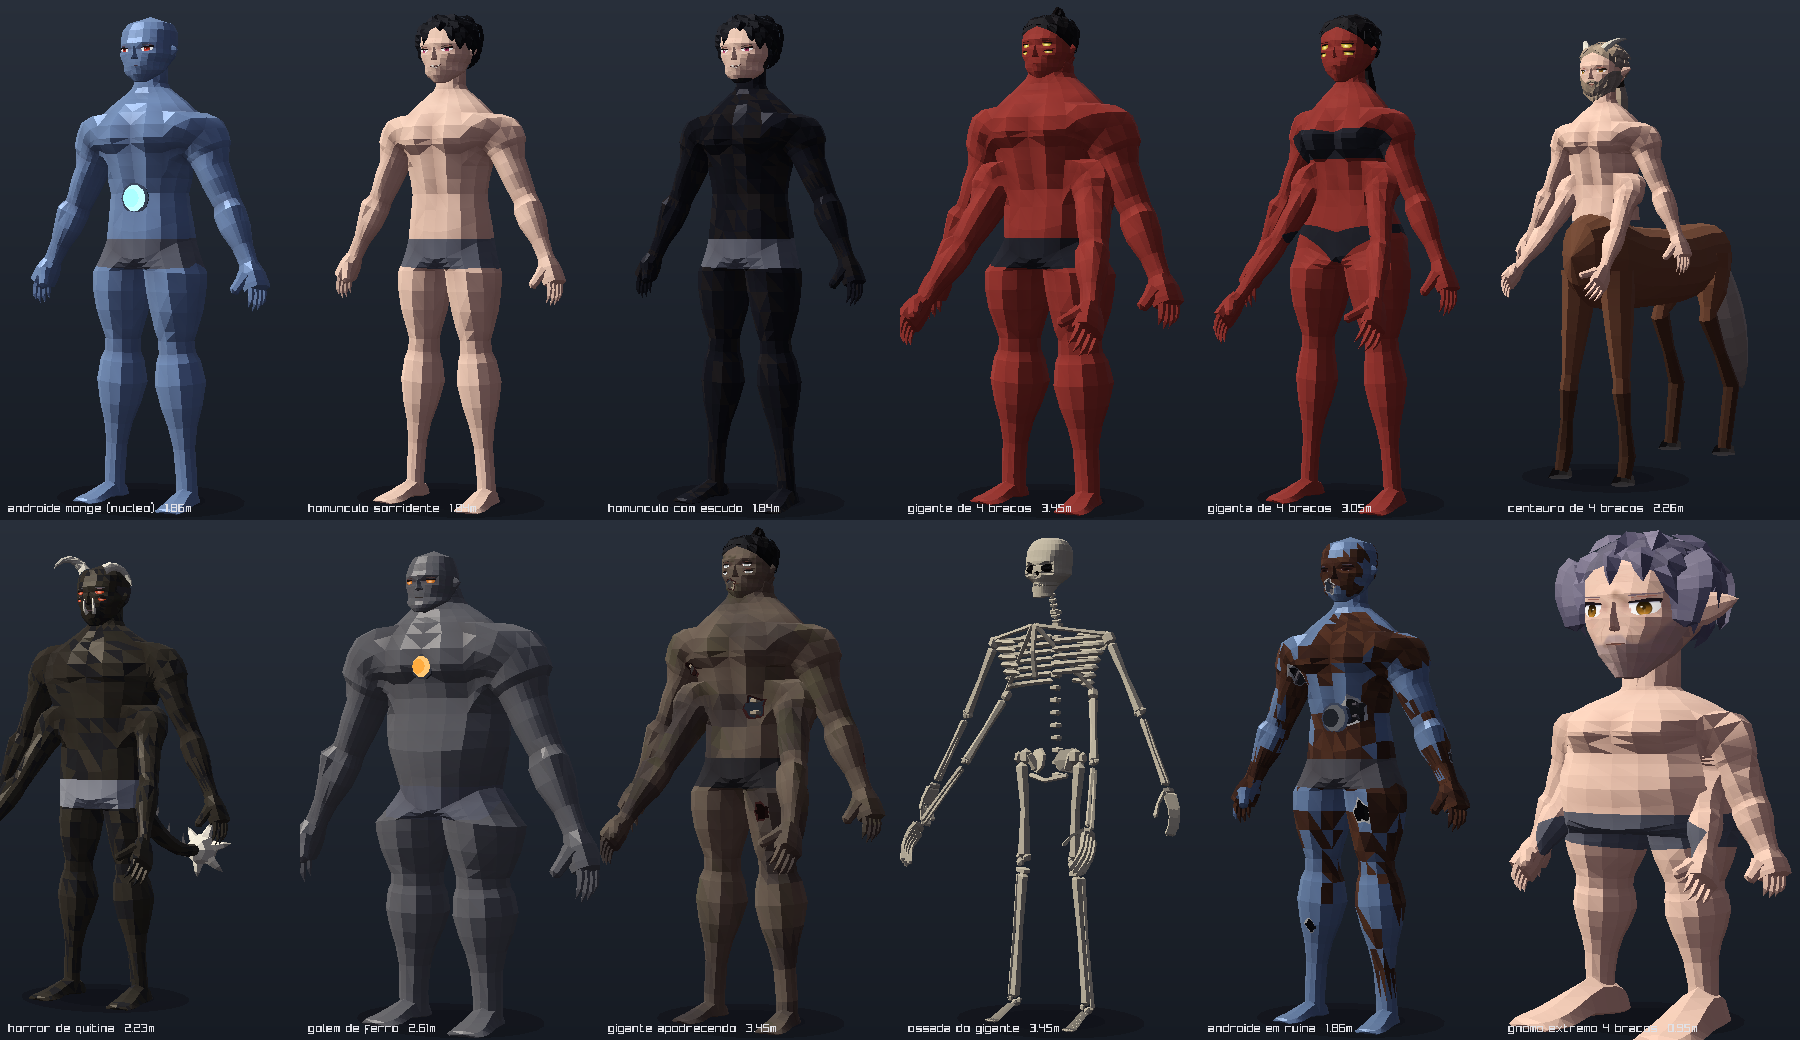
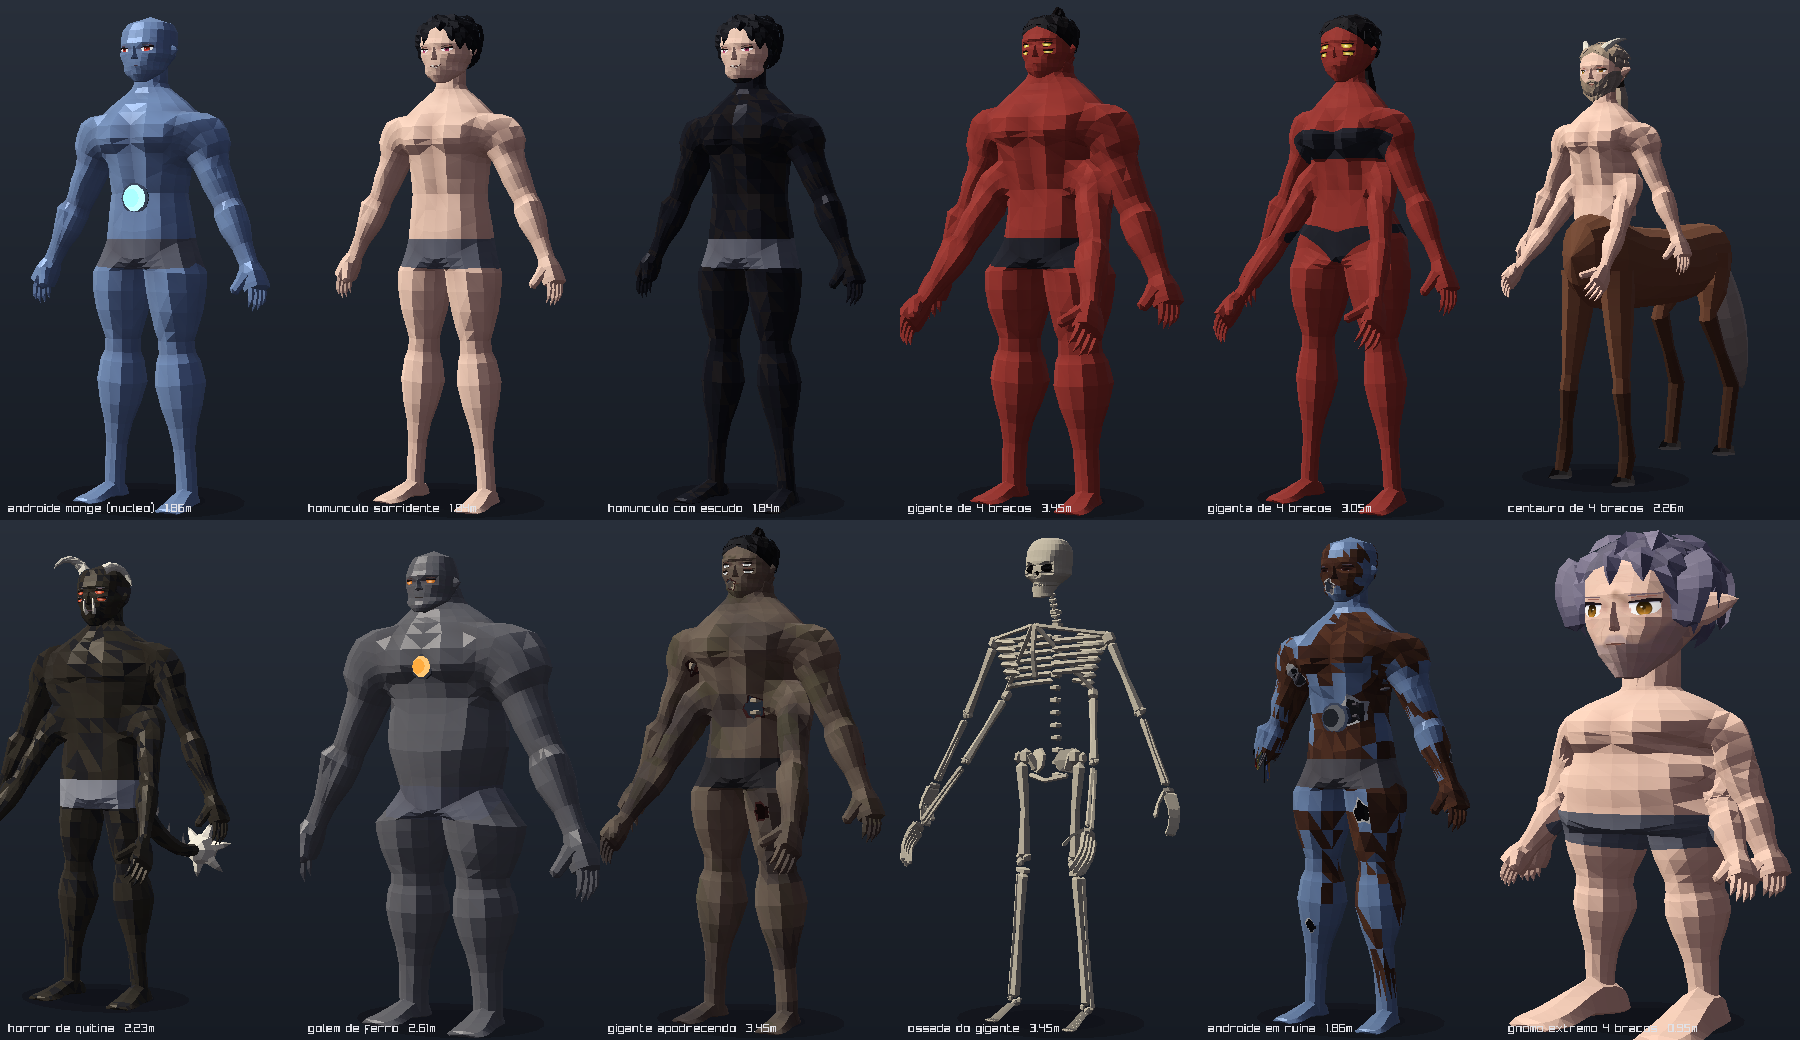
Constructs in ruin: dents, a torn-off forearm with frame stub and wires
- Dents hammered into the shell (more with decay)
- From decay 0.5 a forearm is torn off at a jagged cut: dark socket, the
  iron frame's end sticking out, drooping torn wires with bare copper ends;
  the loss carries on to the bare iron frame
- Test for the torn-off forearm; viewer study framing overrides
- README and images updated

Claude-Session: https://claude.ai/code/session_011V1MhR6AtzmQHNw1LnCBEH

diff --git a/src/bones.cpp b/src/bones.cpp
@@ -610,4 +610,120 @@ void Builder::cullHiddenBones() {
     }
 }
 
+// ---- constructs in ruin ----
+
+// Dents: blows hammered into the shell, more of them as the construct decays.
+void Builder::dentConstruct() {
+    if (g.body.skinKind != 1 || decay_ < 0.08f || bonesOnly_) return;
+    Part& p = parts[torsoPart_];
+    const float h = m.h;
+    std::vector<Vec3> nrm(p.pos.size(), Vec3{});
+    for (const auto& tr : p.tris) {
+        const Vec3 n = cross(p.pos[tr.b] - p.pos[tr.a], p.pos[tr.c] - p.pos[tr.a]);
+        nrm[tr.a] += n, nrm[tr.b] += n, nrm[tr.c] += n;
+    }
+    Rng r(g.seed, 0xDE27);
+    const int count = 2 + int(10.0f * saturate(decay_));
+    for (int k = 0; k < count && !p.tris.empty(); ++k) {
+        const auto& tr = p.tris[size_t(r.rangeInt(0, int(p.tris.size()) - 1))];
+        const Vec3 c = (p.pos[tr.a] + p.pos[tr.b] + p.pos[tr.c]) / 3.0f;
+        if (c.y < 0.08f * m.H) continue;  // not the soles
+        const float R = r.range(0.16f, 0.32f) * h, depth = r.range(0.5f, 1.0f) * 0.07f * h * (0.5f + decay_);
+        for (size_t v = 0; v < p.pos.size(); ++v) {
+            const float d = length(p.pos[v] - c);
+            if (d >= R) continue;
+            const float fall = 1.0f - (d / R) * (d / R);
+            p.pos[v] -= normalize(nrm[v], {0, 0, 1}) * (depth * fall * fall);
+        }
+    }
+}
+
+// A forearm torn off (late decay): a jagged cut through flesh and frame, a dark socket
+// in the stump, the frame's end sticking out and a spray of torn wires.
+void Builder::breakConstruct() {
+    if (g.body.skinKind != 1 || decay_ < 0.5f || m.arms.empty()) return;  // (bare frames keep the loss too)
+    Rng r(g.seed, 0xB2EA);
+    const ArmMarks& a = m.arms[size_t(r.rangeInt(0, int(std::min<size_t>(2, m.arms.size())) - 1))];
+    const LimbRig& rig = ch.rig.arms[size_t(&a - m.arms.data())];
+    const float h = m.h;
+    const Vec3 dir = normalize(a.wrist - a.elbow, a.dir);
+    const Vec3 c = lerp(a.elbow, a.wrist, r.range(0.30f, 0.65f));
+    const float rr = 0.85f * a.radius;
+    const Vec3 u = normalize(cross(dir, Vec3{0, 0, 1}), {1, 0, 0}), v = cross(dir, u);
+    const Vec3 tip = a.handTip + dir * (0.2f * h);
+    const float ph = r.range(0.0f, 6.0f);
+    auto nearArm = [=](Vec3 q) {
+        const Vec3 ab = tip - c;
+        const float t = clamp(dot(q - c, ab) / dot(ab, ab), 0.0f, 1.0f);
+        return length(q - (c + ab * t)) - 2.2f * rr;
+    };
+    auto plane = [=](Vec3 q, float off) {
+        const Vec3 d = q - c;
+        const float ang = std::atan2(dot(d, v), dot(d, u));
+        const float jag = 0.35f * rr * std::sin(5.0f * ang + ph) + 0.18f * rr * std::sin(11.0f * ang + 2.0f * ph);
+        return dot(d, dir) - off - jag;
+    };
+    cutFlesh_ = [=](Vec3 q) { return std::max(-plane(q, 0.0f), nearArm(q)); };
+    cutFrame_ = [=](Vec3 q) { return std::max(-plane(q, 0.18f * h), nearArm(q)); };
+    // The stump is a hole like any tear: the frame near it is kept, the inside is dark.
+    if (!bonesOnly_) holes_.push_back({c, rr, 0.6f * rr, false, dir, nullptr});
+    // Socket: a dark disc closing the stump just inside the cut.
+    wireParts0_ = parts.size();
+    Part& sp = newPart();
+    const int lo = rig.lower;
+    if (!bonesOnly_) {
+        Ellipsoid e;
+        e.center = c - dir * (0.25f * rr);
+        e.axis = dir;
+        e.up = v;
+        e.rAxis = 0.12f * rr;
+        e.rU = e.rV = 0.92f * rr;
+        e.lat = 2;
+        e.lon = 8;
+        emitEllipsoid(sp, e, [=](float, float, Vec3) { return one(lo); },
+                      [](float, float) { return Mat{{0.06f, 0.06f, 0.07f}, MaterialClass::Dark}; });
+    }
+    // Wires: torn cables spilling out of the stump and drooping.
+    static const Vec3 kWire[] = {{0.50f, 0.10f, 0.07f}, {0.09f, 0.09f, 0.10f}, {0.62f, 0.38f, 0.16f}, {0.16f, 0.24f, 0.45f}, {0.40f, 0.36f, 0.10f}};
+    const int nw = 4 + r.rangeInt(0, 2);
+    for (int k = 0; k < nw; ++k) {
+        const float ang = kTau * float(k) / float(nw) + r.range(-0.3f, 0.3f), rad = r.range(0.25f, 0.6f) * rr;
+        Vec3 p = c + (u * std::cos(ang) + v * std::sin(ang)) * rad - dir * (0.1f * rr);
+        Vec3 d = normalize(dir + (u * std::cos(ang) + v * std::sin(ang)) * r.range(0.2f, 0.6f));
+        const float len = r.range(0.28f, 0.55f) * h, wr = r.range(0.013f, 0.020f) * h;
+        std::vector<Vec3> pts{p};
+        for (int s = 0; s < 4; ++s) {
+            d = normalize(d + Vec3{0, -0.45f, 0} + Vec3{r.range(-0.2f, 0.2f), 0, r.range(-0.2f, 0.2f)});
+            p = p + d * (len / 4.0f);
+            pts.push_back(p);
+        }
+        Loft L;
+        for (size_t s = 0; s < pts.size(); ++s) {
+            const Vec3 dd = normalize(s + 1 < pts.size() ? pts[s + 1] - pts[s] : pts[s] - pts[s - 1], dir);
+            const Vec3 vv = normalize(cross(dd, Vec3{1, 0, 0}), Vec3{0, 1, 0}), uu = cross(dd, vv);
+            L.rings.push_back(makeRing(pts[s], uu, vv, SuperRing{wr, 0, wr, wr}, 4));
+            L.t.push_back(float(s) / float(pts.size() - 1));
+        }
+        L.poleEnd = true;
+        L.endPole = pts.back() + normalize(pts.back() - pts[pts.size() - 2], dir) * wr;
+        const Vec3 col = kWire[size_t(k) % 5];
+        emitLoft(sp, L, [=](float, float, Vec3) { return one(lo); }, [=](float t, float) {
+            return t > 0.9f ? Mat{{0.78f, 0.52f, 0.28f}, MaterialClass::Metal} : Mat{col, MaterialClass::Leather};  // bare copper ends
+        });
+    }
+    wireParts1_ = parts.size();
+}
+
+// The cut applies to every surface (flesh, hand, shells) except the frame, which keeps
+// a stub, and the socket and wires themselves.
+void Builder::applyConstructCut() {
+    if (!cutFlesh_) return;
+    const Mat gone{{0, 0, 0}, MaterialClass::Count};
+    for (size_t i = 0; i < parts.size(); ++i) {
+        if (parts[i].kind != SubmeshKind::Body || (i >= wireParts0_ && i < wireParts1_)) continue;
+        const bool frame = i >= boneParts0_ && i < boneParts1_;
+        parts[i].clips.push_back({frame ? cutFrame_ : cutFlesh_, gone, 0});
+    }
+}
+
 }  // namespace cg::detail

diff --git a/tests/tests.cpp b/tests/tests.cpp
@@ -250,6 +250,19 @@ int main() {
         for (const Vertex& v : b.mesh.vertices) metal += v.color[3] / 32 == int(MaterialClass::Metal), horn += v.color[3] / 32 == int(MaterialClass::Horn);
         CHECK(metal > horn, "esqueleto do constructo nao e de ferro (%d metal, %d osso)", metal, horn);
     }
+    {   // A ruined construct loses a forearm: one hand has (almost) nothing skinned to it.
+        GenOptions go;
+        go.decay = 0.7f;
+        const Character c = generateCharacter(*studyGenome("android_monk", 1), go);
+        int hands[2] = {0, 0};
+        for (const Vertex& v : c.mesh.vertices) {
+            int best = 0;
+            for (int k = 1; k < 4; ++k)
+                if (v.weights[k] > v.weights[best]) best = k;
+            for (int a = 0; a < 2; ++a) hands[a] += v.joints[best] == c.rig.arms[size_t(a)].end;
+        }
+        CHECK(std::min(hands[0], hands[1]) * 10 < std::max(hands[0], hands[1]), "constructo sem antebraco arrancado (%d / %d)", hands[0], hands[1]);
+    }
     {   // Corpses only keep the bones a hole can show.
         GenOptions a, b;
         a.decay = 0.5f;

diff --git a/src/generator_impl.hpp b/src/generator_impl.hpp
@@ -115,6 +115,11 @@ private:
     void addDecayHoles();
     void buildCavityShells();
     void cullHiddenBones();  // drop skeleton faces no hole can show (most of it while flesh remains)
+    // Constructs in ruin (bones.cpp): dents hammered into the shell, and late a forearm
+    // torn off at a jagged edge with the iron frame and torn wiring sticking out.
+    void dentConstruct();
+    void breakConstruct();
+    void applyConstructCut();
     void buildTusks();
     void buildEars();
 
@@ -135,6 +140,8 @@ private:
     std::vector<Hole> holes_;
     float torsoD_ = 0.0f, profK_ = 1.0f;     // torso depth and how much its profile may swing (short torsos)
     size_t boneParts0_ = 0, boneParts1_ = 0;  // parts built by buildBoneSkeleton
+    std::function<float(Vec3)> cutFlesh_, cutFrame_;  // torn-off limb (< 0 removed)
+    size_t wireParts0_ = 0, wireParts1_ = 0;
     size_t torsoTriStart_ = 0;           // first torso-loft triangle in the torso part
     uint32_t torsoFirst_ = 0;            // first torso-loft vertex
     int torsoN_ = 0;                     // vertices per torso ring

diff --git a/apps/viewer.cpp b/apps/viewer.cpp
@@ -964,7 +964,11 @@ int runStudies(Scene& s, const std::string& path, uint64_t seed) {
             cam = makeCam({0, hp.y + 0.40f * hh, 0.1f * hh}, sy ? float(std::atof(sy)) : 0.38f, 0.0f, hh * 6.8f / (sz ? float(std::atof(sz)) : 1.0f), 21.0f);
         } else {
             const bool longBody = a.ch.genome.body.centaur || a.ch.genome.body.tail;
-            cam = makeCam({0, H * 0.5f, longBody ? -0.2f * H : 0.0f}, 0.55f, 0.03f, H * (longBody ? 3.4f : 2.9f), 21.0f);
+            const char* sy = std::getenv("CHARGEN_STUDYYAW");
+            const char* sz = std::getenv("CHARGEN_STUDYZOOM");
+            const char* sf = std::getenv("CHARGEN_STUDYY");
+            cam = makeCam({0, H * (sf ? float(std::atof(sf)) : 0.5f), longBody ? -0.2f * H : 0.0f}, sy ? float(std::atof(sy)) : 0.55f, 0.03f,
+                          H * (longBody ? 3.4f : 2.9f) / (sz ? float(std::atof(sz)) : 1.0f), 21.0f);
         }
         RenderTexture2D prt = LoadRenderTexture(pw, ph);
         BeginTextureMode(prt);

diff --git a/src/generator.cpp b/src/generator.cpp
@@ -2345,6 +2345,8 @@ Character Builder::build() {
         buildTusks();
         buildColliders();
         buildBoneSkeleton();
+        breakConstruct();
+        applyConstructCut();
         finalizeParts(parts, ch.mesh, opt.faceted, opt.creaseAngle);
         ch.faceAtlas = paintFaceAtlas(g);
         return std::move(ch);
@@ -2368,11 +2370,14 @@ Character Builder::build() {
     buildBones();
     applyFur();
     buildFurTufts();
+    dentConstruct();
     if (decay_ >= 0.3f || g.species == Species::Undead) {  // torn open onto the real skeleton
         buildBoneSkeleton();
         addDecayHoles();
+        breakConstruct();
         cullHiddenBones();
         buildCavityShells();
+        applyConstructCut();
     }
     buildEyelids();
     applySkinKind();

diff --git a/README.md b/README.md
@@ -41,7 +41,7 @@ Raylib 5.5 (opcional).
 | ![estudos](docs/estudos.png) |
 | ![estudos, rostos](docs/estudos_rostos.png) |
 
-| Constructos não apodrecem (`skinKind` 1): desligam (olhos e núcleo apagam), enferrujam em manchas foscas que se espalham, as placas rasgam com borda de metal raspado e por dentro aparece a armação de ferro; no fim sobra o esqueleto de ferro |
+| Constructos não apodrecem (`skinKind` 1): desligam (olhos e núcleo apagam), levam amassados na carcaça, enferrujam em manchas foscas que se espalham, as placas rasgam com borda de metal raspado e por dentro aparece a armação de ferro; a partir de 0,5 um antebraço é arrancado (corte serrilhado, soquete escuro, ponta da armação e fios rompidos pendurados), e a perda continua na armação de ferro que sobra no fim |
 |---|
 | ![constructos](docs/constructos_ruina.png) |
 
@@ -166,7 +166,13 @@ Variáveis novas no genoma (`BodyShape`): `tailType` (0 simples, 1 réptil pesad
 continua pela cauda) e `tuskCurve` (-1 abertas para fora … +1 curvadas para dentro); `skinKind` (0 carne,
 1 metálica, 2 carapaça em placas facetadas com `carapace` = cobertura e `carapaceColor`), `core` (orbe
 brilhante no abdômen ou no peito, `coreColor`, material emissivo `MaterialClass::Glow`). No rosto:
-`eyePairs` (2 = segundo par de olhos) e `mouthStyle` 3 (sorriso de tubarão, duas fileiras de dentes).
+`eyePairs` (2 = segundo par de olhos, cada um numa órbita esculpida com pálpebras superior e inferior
+modeladas) e `mouthStyle` 3 (sorriso de tubarão, duas fileiras de dentes).
+
+Axilas: a junção braço–tronco é uma grade relaxada e reparada (colunas seguem o ângulo real em torno do
+braço, cantos inferiores arredondados, oco da axila, braços pesados apoiados no flanco em vez de
+afundar nele); `CHARGEN_CHECK=1` conta dobras: zero em 672 combinações de povo × 2/4 braços × seed e em
+todos os presets.
 
 `validateCharacter` confere índices, NaN, normais, pesos, ossos, faixas de submalha, limites e orçamento;
 `fuzzGenome` sorteia genomas muito além da população (todos os povos, presets, quatro braços, caudas,
